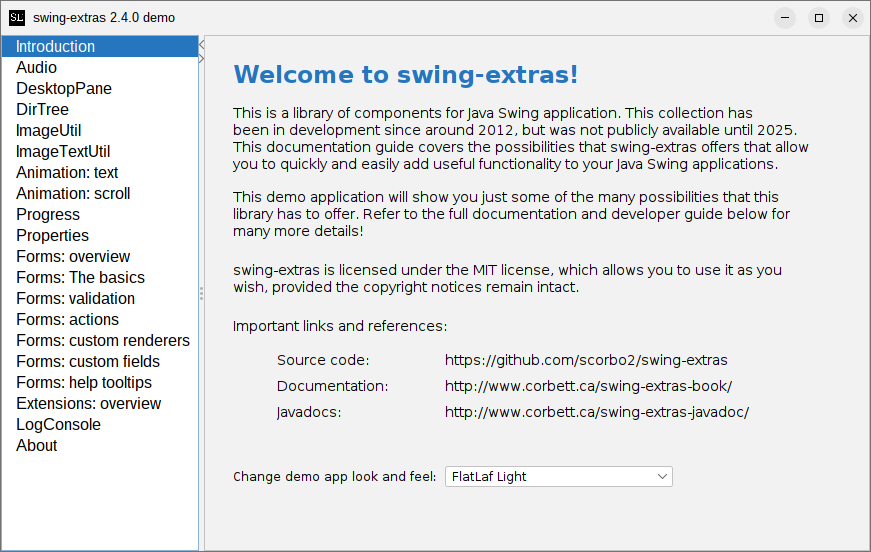
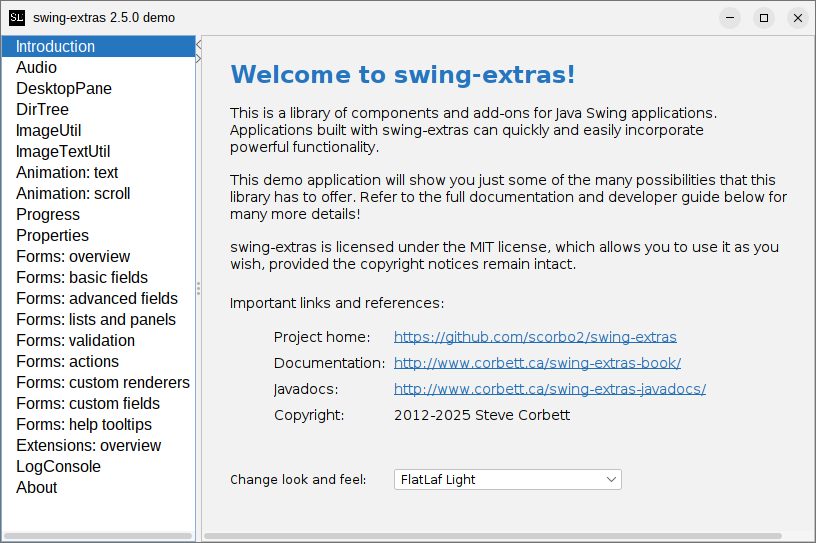
Updating intro page for 2.5 release

Changed region(s): [[0.0, 0.0, 1.0, 1.0]]

diff --git a/src/introduction.md b/src/introduction.md
@@ -2,12 +2,12 @@
 
 # What is this?
 
-`swing-extras` is a library of components for Java Swing applications. This collection has been in development
-since around 2012, but was not publicly available until 2025. This documentation guide covers the possibilities
-that `swing-extras` offers that allow you to quickly and easily add useful functionality to your Java Swing
-applications.
+`swing-extras` is a collection of custom components and utilities for Java Swing applications.
+This collection has been under development since 2012 or so.
+This documentation guide covers the possibilities that `swing-extras` offers that allow you to 
+quickly and easily add useful functionality to your Java Swing applications.
 
-**This guide covers version 2.5.0 of swing-extras from TODO insert date** 
+**This guide covers version 2.5.0 of swing-extras from 2025-12-01** 
 
 The library jar includes a built-in demo application that offers a brief preview of some of the features and
 components of `swing-extras`:
@@ -44,4 +44,3 @@ you can do as you wish with the source code, provided the copyright notices rema
 
 Bug reports and feature requests are submitted via [GitHub issues](https://github.com/scorbo2/swing-extras/issues).
 Feel free to create a ticket there!
-
